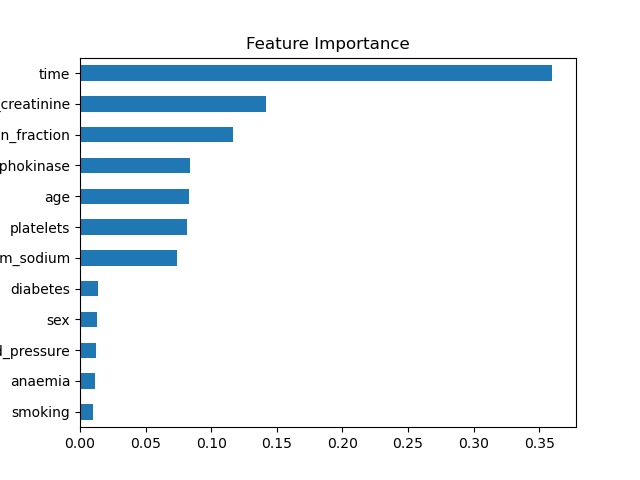
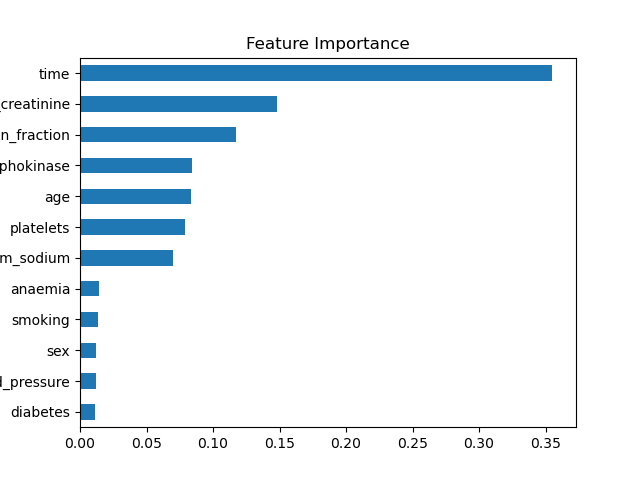
"Latest changes."

diff --git a/experiments/run_full_features.py b/experiments/run_full_features.py
@@ -3,10 +3,13 @@ from src.models import get_models
 from src.train import run_experiment
 from src.evaluation import aggregate_results
 from src.utils import save_json
-from src.visualization import plot_roc_curve, plot_pr_curve, plot_feature_importance
+from src.visualization import plot_calibration_curve, plot_roc_curve, plot_pr_curve, plot_feature_importance
 from src.feature_ranking import rank_features
 from src.config import DATA_PATH, N_RUNS, TARGET
+from src.interpretation import compute_shap
+import matplotlib.pyplot as plt
 
+import shap
 import os
 
 df = load_data(DATA_PATH)
@@ -22,14 +25,28 @@ save_json(aggregated, "results/metrics/full_features.json")
 os.makedirs("results/figures", exist_ok=True)
 
 # generate plots (use Random Forest as main model)
-y_test, y_prob, model = outputs["random_forest"]
+rf_output = outputs["random_forest"]
+
+model = rf_output["model"]
+X_test = rf_output["X_test"]
+y_test = rf_output["y_test"]
+y_prob = rf_output["y_prob"]
 
 plot_roc_curve(y_test, y_prob, "results/figures/roc_rf.png")
 plot_pr_curve(y_test, y_prob, "results/figures/pr_rf.png")
+plot_calibration_curve(y_test, y_prob, "results/figures/calibration_rf.png")
 
 # feature importance
-X = df.drop(columns=[TARGET])
+X = X_test
 y = df[TARGET]
+
 importances = rank_features(X, y)
 
 plot_feature_importance(importances, "results/figures/feature_importance.png")
+
+# SHAP values
+shap_values = compute_shap(model, X)
+
+shap.summary_plot(shap_values, X, show=False)
+plt.savefig("results/figures/shap_summary.png")
+plt.close()

diff --git a/src/models.py b/src/models.py
@@ -1,9 +1,22 @@
 from sklearn.ensemble import RandomForestClassifier, GradientBoostingClassifier
 from sklearn.svm import SVC
+from xgboost import XGBClassifier    # Added XGBoost classifier
+from sklearn.neural_network import MLPClassifier    # Added MLPClassifier for neural network model
+
 
 def get_models():
     return {
         "random_forest": RandomForestClassifier(n_estimators=200),
         "gradient_boosting": GradientBoostingClassifier(),
-        "svm_rbf": SVC(kernel="rbf", probability=True)
+        "svm_rbf": SVC(kernel="rbf", probability=True),
+        "xgboost": XGBClassifier(
+            n_estimators=200,
+            max_depth=3,
+            learning_rate=0.1,
+            use_label_encoder=False,
+            eval_metric="logloss"
+            ),
+        "mlp": MLPClassifier(
+            hidden_layer_sizes=(32, 16),
+            max_iter=500)
     }

diff --git a/src/visualization.py b/src/visualization.py
@@ -1,5 +1,6 @@
 import matplotlib.pyplot as plt
 from sklearn.metrics import roc_curve, precision_recall_curve
+from sklearn.calibration import calibration_curve
 
 
 def plot_roc_curve(y_true, y_prob, save_path):
@@ -29,5 +30,17 @@ def plot_pr_curve(y_true, y_prob, save_path):
 def plot_feature_importance(importances, save_path):
     importances.sort_values().plot(kind="barh")
     plt.title("Feature Importance")
+    plt.savefig(save_path)
+    plt.close()
+
+def plot_calibration_curve(y_true, y_prob, save_path):
+    prob_true, prob_pred = calibration_curve(y_true, y_prob, n_bins=10)
+
+    plt.figure()
+    plt.plot(prob_pred, prob_true)
+    plt.plot([0,1], [0,1], linestyle="--")
+    plt.xlabel("Predicted probability")
+    plt.ylabel("True probability")
+    plt.title("Calibration Curve")
     plt.savefig(save_path)
     plt.close()

diff --git a/src/train.py b/src/train.py
@@ -18,7 +18,12 @@ def run_experiment(df, models, n_runs=100):
             results[name].append(metrics)
 
             # store LAST run for plotting
-            last_run_outputs[name] = (y_test, y_prob, model)
+            last_run_outputs[name] = {
+                "model": model,
+                "X_test": X_test,
+                "y_test": y_test,
+                "y_prob": y_prob
+                }
 
     return results, last_run_outputs
 

diff --git a/experiments/generate_report.py b/experiments/generate_report.py
@@ -1,7 +1,7 @@
 from src.reporting import generate_metrics_table
 import json
 
-with open("results/full_features.json") as f:
+with open("results/metrics/full_features.json") as f:
     full = json.load(f)
 
 with open("results/top2_features.json") as f:
@@ -12,4 +12,4 @@ combined = {
     "top2_features": top2
 }
 
-generate_metrics_table(combined, "results/reports/summary.csv")
+generate_metrics_table(combined, "results/summary.csv")

diff --git a/experiments/run_ablation.py b/experiments/run_ablation.py
@@ -1,0 +1,17 @@
+from src.data import load_data
+from src.config import DATA_PATH, TARGET
+from src.models import get_models
+from src.train import run_experiment
+
+models = get_models()
+df = load_data(DATA_PATH)
+
+features = list(df.columns)
+features.remove(TARGET)
+
+for feature in features:
+    subset = [f for f in features if f != feature]
+
+    df_sub = df[subset + [TARGET]]
+
+    results, _ = run_experiment(df_sub, models)

diff --git a/src/interpretation.py b/src/interpretation.py
@@ -1,0 +1,11 @@
+import shap
+
+def compute_shap(model, X):
+    explainer = shap.TreeExplainer(model)
+    shap_values = explainer.shap_values(X)
+
+    # binary classification handling
+    if isinstance(shap_values, list):
+        shap_values = shap_values[1]
+
+    return shap_values
